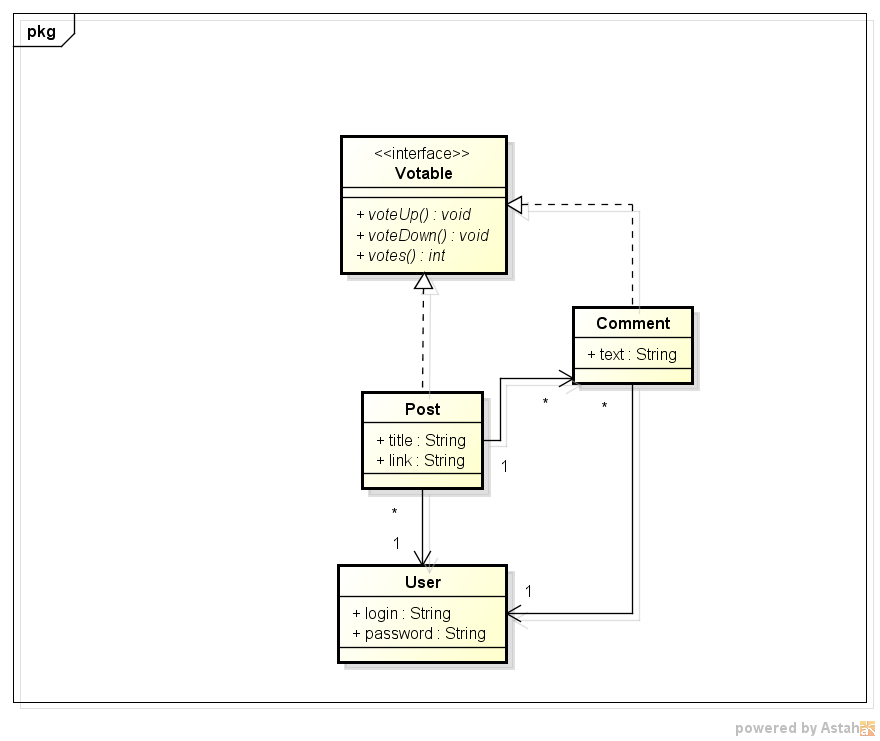
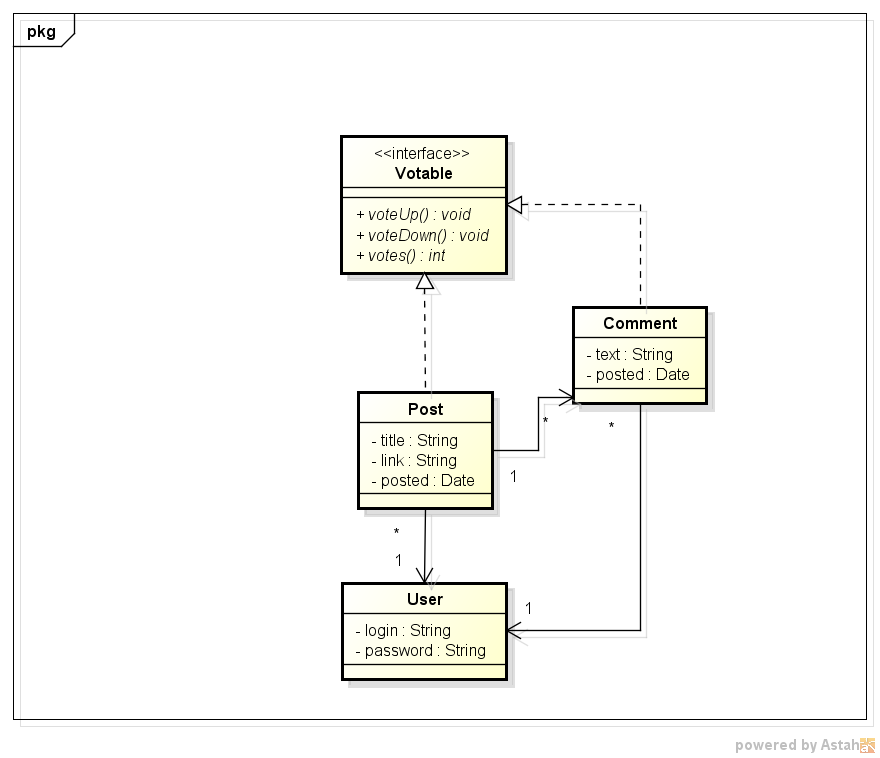
Post Links implementet including Domain Object and Dao

diff --git a/IntTe.Testat1/src/main/java/ch/hsr/intTe/domain/Post.java b/IntTe.Testat1/src/main/java/ch/hsr/intTe/domain/Post.java
@@ -1,0 +1,46 @@
+package ch.hsr.intTe.domain;
+
+import java.io.Serializable;
+import java.util.Date;
+
+public class Post implements Serializable{
+	private static final long serialVersionUID = 4534629547661798393L;
+	
+	private String title;
+	private String link;
+	private Date postedAt;
+	private String author;
+	
+	public String getTitle() {
+		return title;
+	}
+	
+	public void setTitle(String title) {
+		this.title = title;
+	}
+	
+	public String getLink() {
+		return link;
+	}
+	
+	public void setLink(String link) {
+		this.link = link;
+	}
+
+	public Date getPostedAt() {
+		return postedAt;
+	}
+
+	public void setPostedAt(Date postedAt) {
+		this.postedAt = postedAt;
+	}
+
+	public String getAuthor() {
+		return author;
+	}
+
+	public void setAuthor(String author) {
+		this.author = author;
+	}
+	
+}

diff --git a/IntTe.Testat1/src/main/java/ch/hsr/intTe/ui/Content.java b/IntTe.Testat1/src/main/java/ch/hsr/intTe/ui/Content.java
@@ -1,0 +1,22 @@
+package ch.hsr.intTe.ui;
+
+import java.io.Serializable;
+
+import javax.faces.bean.ApplicationScoped;
+import javax.faces.bean.ManagedBean;
+
+import ch.hsr.intTe.dao.PostDao;
+import ch.hsr.intTe.domain.Post;
+
+@ManagedBean
+@ApplicationScoped
+public class Content implements Serializable{
+	private static final long serialVersionUID = 4713949485079134102L;
+	
+	private PostDao postDao = PostDao.getInstance();
+	
+	public Iterable<Post> getPosts(){
+		return postDao.getPosts();
+	}
+	
+}

diff --git a/IntTe.Testat1/src/main/java/ch/hsr/intTe/domain/Comment.java b/IntTe.Testat1/src/main/java/ch/hsr/intTe/domain/Comment.java
@@ -1,0 +1,18 @@
+package ch.hsr.intTe.domain;
+
+import java.io.Serializable;
+
+public class Comment implements Serializable{
+	private static final long serialVersionUID = -4272793839234627484L;
+	
+	private String test;
+
+	public String getTest() {
+		return test;
+	}
+
+	public void setTest(String test) {
+		this.test = test;
+	}
+	
+}
